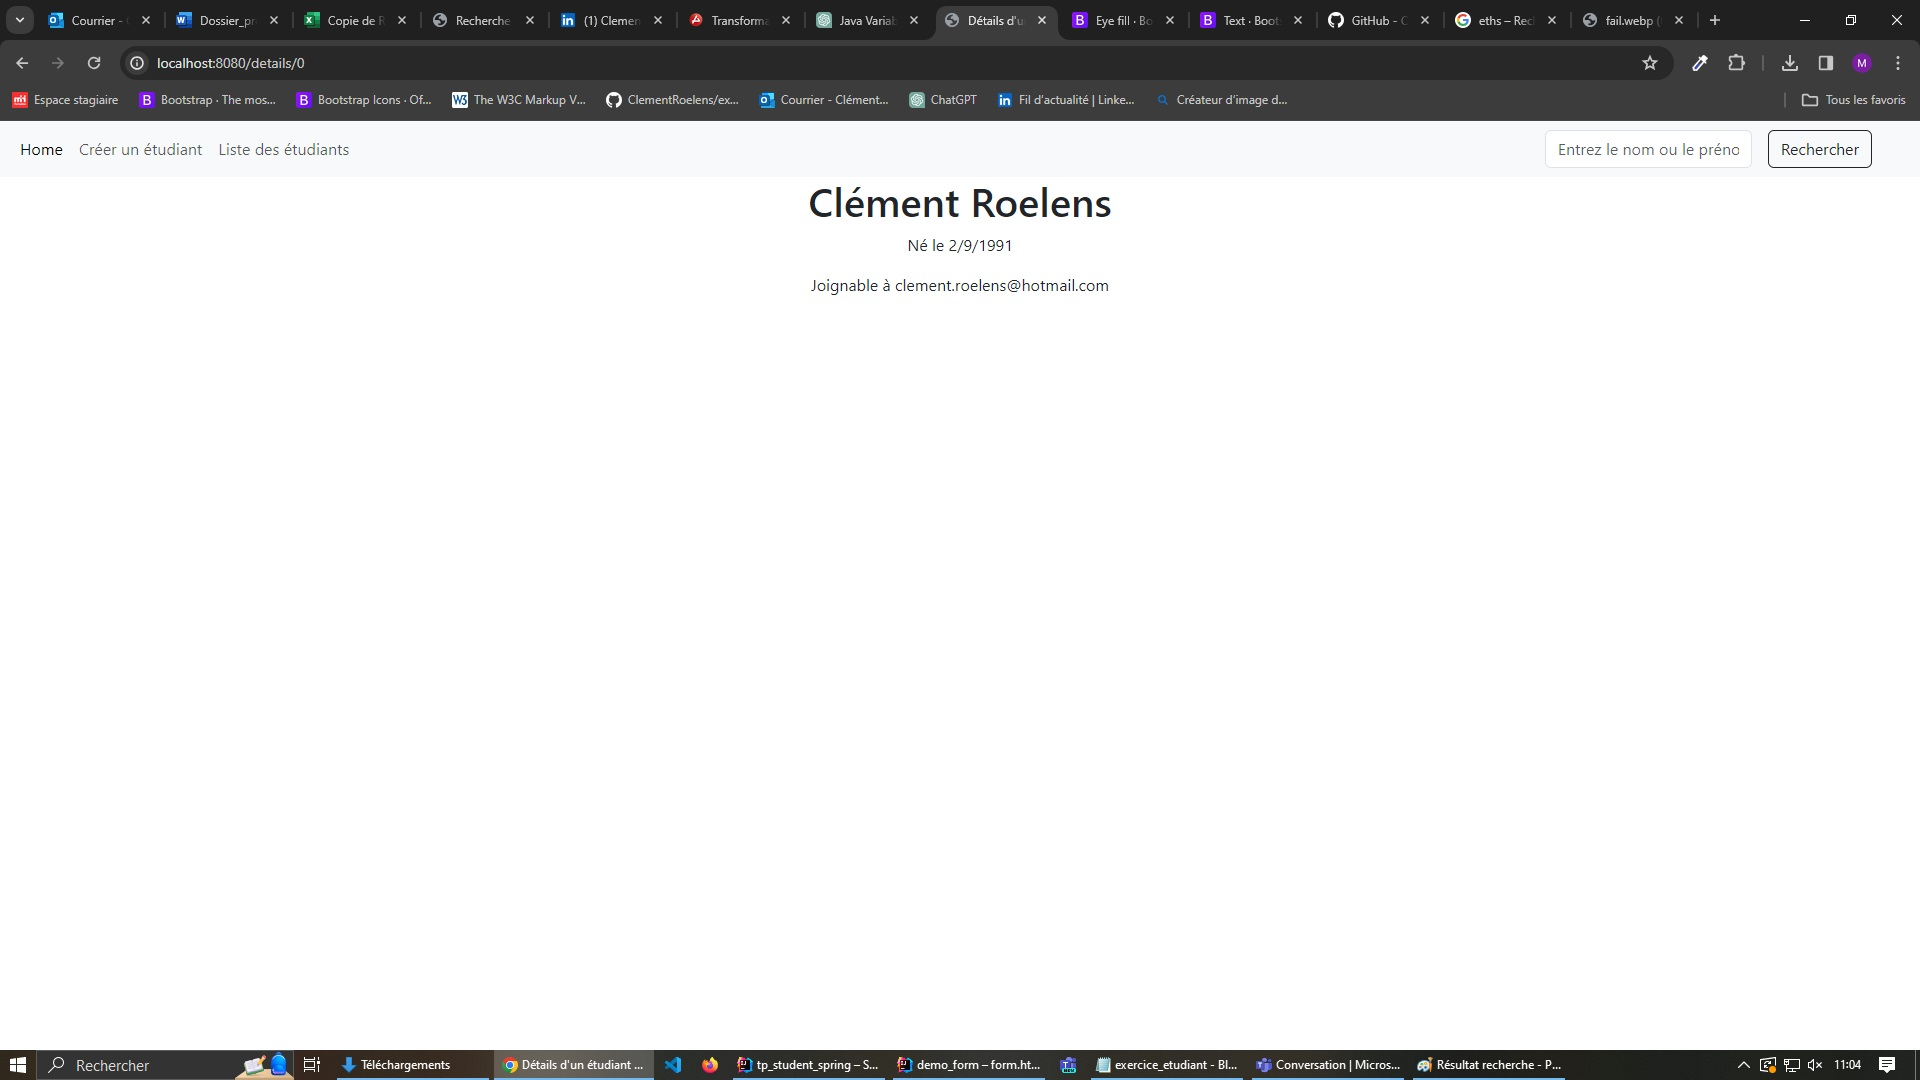
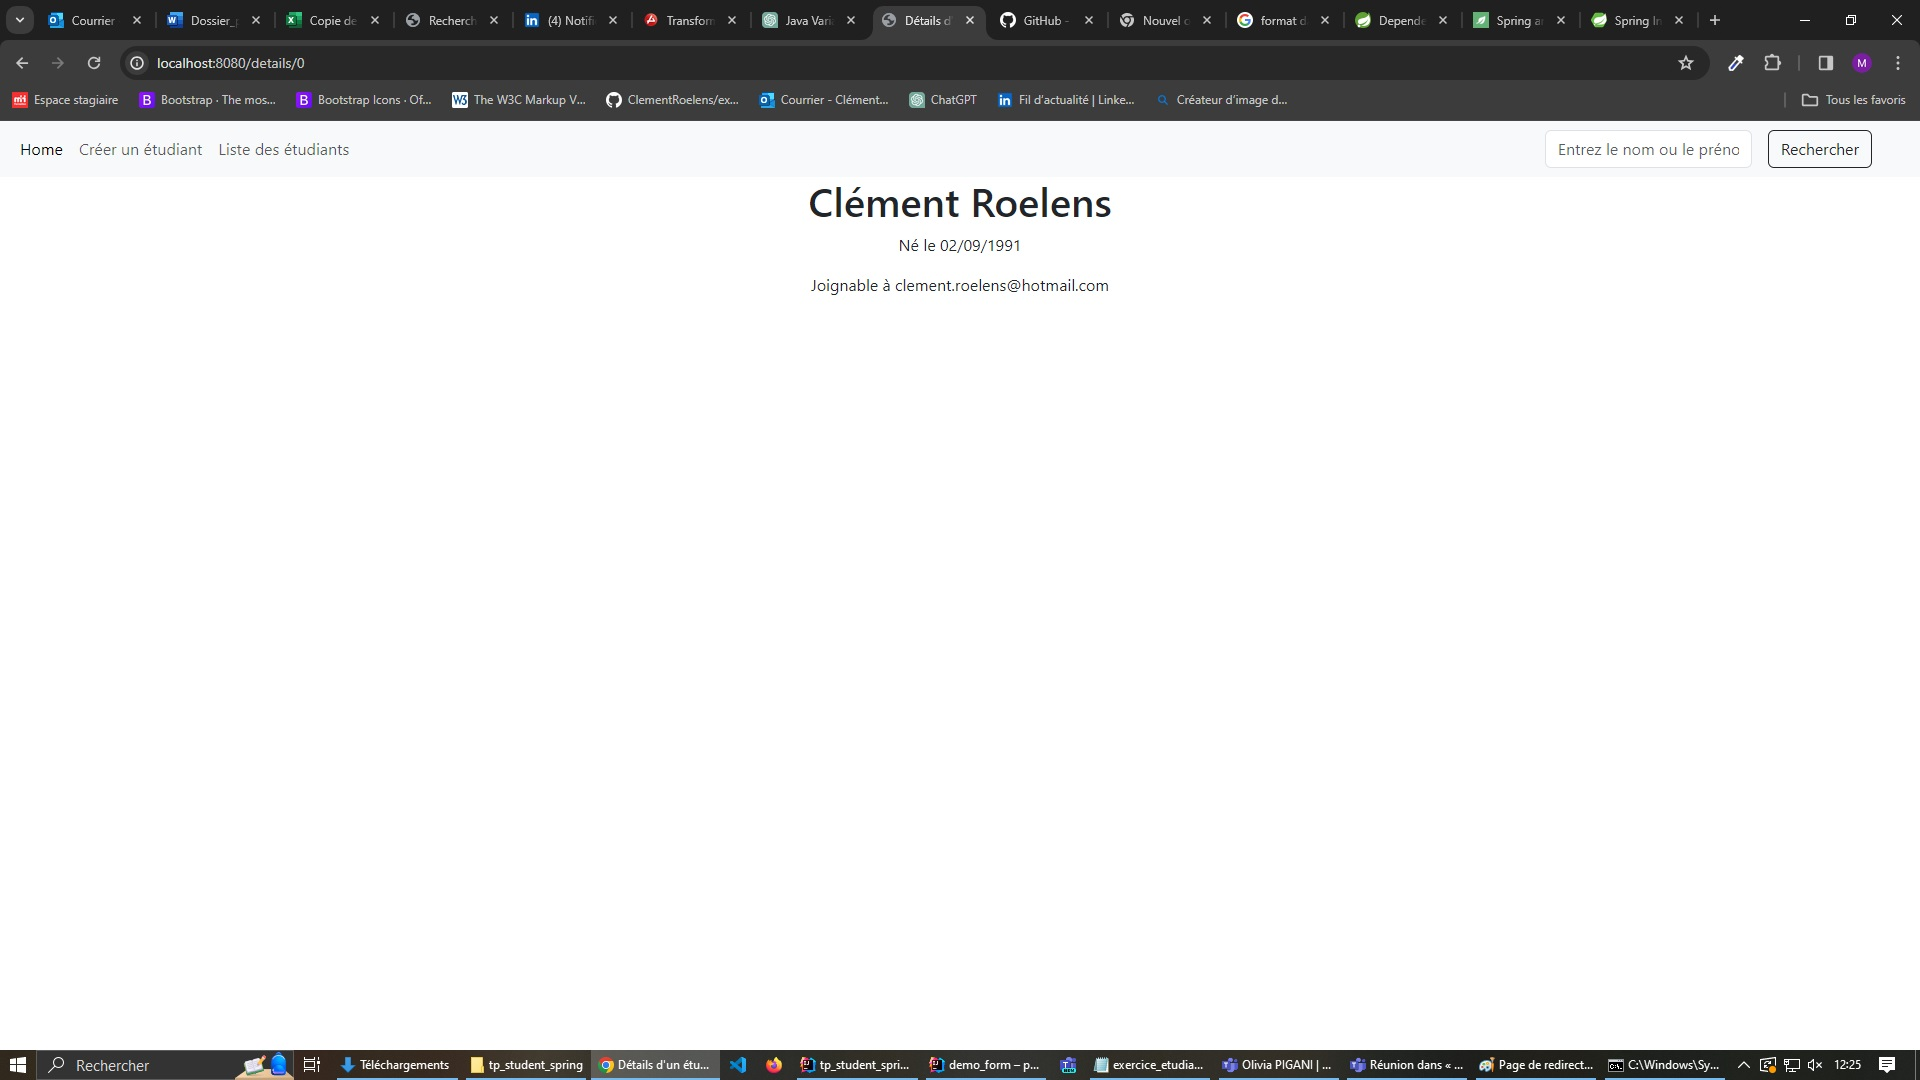
amélioré

diff --git a/src/main/resources/templates/pages/student-details.html b/src/main/resources/templates/pages/student-details.html
@@ -1,5 +1,5 @@
 <!DOCTYPE html>
-<html lang="en" xmlns:th="http://www.thymeleaf.org">
+<html lang="fr" xmlns:th="http://www.thymeleaf.org">
 <head>
     <meta charset="UTF-8">
     <title>Détails d'un étudiant</title>
@@ -9,7 +9,10 @@
 <th:block th:replace="~{pages/index :: header}"></th:block>
 <main class="container mx-auto text-center">
     <h1><th:block th:text="${student.firstName}"></th:block> <th:block th:text="${student.lastName}"></th:block></h1>
-    <p>Né le <th:block th:text="${student.birthdate.dayOfMonth}+'/'+${student.birthdate.getMonthValue()}+'/'+${student.birthdate.year}"></th:block></p>
+    <p>Né le <th:block
+            th:text="${student.birthdate.dayOfMonth < 10 ? '0' + student.birthdate.dayOfMonth : student.birthdate.dayOfMonth }+'/'
+            +${student.birthdate.getMonthValue() < 10 ? '0' + student.birthdate.getMonthValue() : student.birthdate.getMonthValue()}
+            +'/'+${student.birthdate.year}"></th:block></p>
     <p>Joignable à <span class="link-offset-1" th:text="${student.email}"></span></p>
 </main>
 </body>

diff --git a/src/main/resources/templates/pages/fail.html b/src/main/resources/templates/pages/fail.html
@@ -1,5 +1,5 @@
 <!DOCTYPE html>
-<html lang="en" xmlns:th="http://www.thymeleaf.org">
+<html lang="fr" xmlns:th="http://www.thymeleaf.org">
 <head>
     <meta charset="UTF-8">
     <title>Échec</title>
@@ -8,8 +8,9 @@
 <body>
 <th:block th:replace="~{pages/index :: header}"></th:block>
 <main class="container mx-auto text-center pt-4">
-    <h1>Quelle tristesse, une erreur est survenue</h1>
-    <img th:src="@{images/fail.webp}" alt="Lapin triste" class="w-50 rounded">
+    <h1 class="fs-4">Quelle tristesse, une erreur est survenue</h1>
+    <h2 class="fs-5" th:text="${message}"></h2>
+    <img th:src="@{/images/fail.webp}" alt="Lapin triste" class="w-25 rounded my-5">
     <p class="mt-2">Vous allez être redirigé</p>
 </main>
 <script th:inline="javascript">

diff --git a/src/main/resources/templates/pages/success.html b/src/main/resources/templates/pages/success.html
@@ -1,5 +1,5 @@
 <!DOCTYPE html>
-<html lang="en" xmlns:th="http://www.thymeleaf.org">
+<html lang="fr" xmlns:th="http://www.thymeleaf.org">
 <head>
     <meta charset="UTF-8">
     <title>Title</title>
@@ -8,8 +8,8 @@
 <body>
 <th:block th:replace="~{pages/index :: header}"></th:block>
 <main class="container mx-auto text-center pt-4">
-    <h1>Action réussie !</h1>
-    <img th:src="@{images/success.jpg}" alt="Lapin heureux" class="w-50 rounded">
+    <h1 class="fs-4">Action réussie !</h1>
+    <img th:src="@{/images/success.jpg}" alt="Lapin heureux" class="w-25 rounded my-5">
     <p class="mt-2">Vous allez être redirigé</p>
 </main>
 <script th:inline="javascript">

diff --git a/src/main/resources/templates/pages/add-student.html b/src/main/resources/templates/pages/add-student.html
@@ -1,5 +1,5 @@
 <!DOCTYPE html>
-<html lang="en" xmlns:th="http://www.thymeleaf.org">
+<html lang="fr" xmlns:th="http://www.thymeleaf.org">
 <head>
     <meta charset="UTF-8">
     <title>Ajout d'un étudiant</title>

diff --git a/src/main/resources/templates/pages/index.html b/src/main/resources/templates/pages/index.html
@@ -1,5 +1,5 @@
 <!DOCTYPE html>
-<html lang="en" xmlns:th="http://www.thymeleaf.org">
+<html lang="fr" xmlns:th="http://www.thymeleaf.org">
 <head>
     <meta charset="UTF-8">
     <title>Title</title>

diff --git a/src/main/resources/templates/pages/show-students.html b/src/main/resources/templates/pages/show-students.html
@@ -1,4 +1,4 @@
-<html lang="en" xmlns:th="http://www.thymeleaf.org">
+<html lang="fr" xmlns:th="http://www.thymeleaf.org">
 <head>
     <meta charset="UTF-8">
     <title>Liste des étudiants</title>

diff --git a/src/main/java/org/example/tp_student_spring/controller/StudentController.java b/src/main/java/org/example/tp_student_spring/controller/StudentController.java
@@ -23,8 +23,7 @@ public class StudentController {
 
     @GetMapping("/list")
     public String list(Model model){
-        List<Student> students = studentService.getAllStudents();
-        model.addAttribute("students",students);
+        model.addAttribute("students",studentService.getAllStudents());
         return "pages/show-students";
     }
 
@@ -35,16 +34,21 @@ public class StudentController {
     }
 
     @PostMapping("/addStudentAction")
-    public String addStudent(@ModelAttribute("student") Student student){
+    public String addStudent(@ModelAttribute("student") Student student, Model model){
         if (studentService.createStudent(student)){
             return "pages/success";
         }
+        model.addAttribute("message", "Un étudiant doit avoir 18 ans");
         return "pages/fail";
     }
 
     @GetMapping("/details/{id}")
     public String getDetails(@PathVariable("id")int id, Model model){
         Student student = studentService.getStudentByid(id);
+        if (student == null){
+            model.addAttribute("message","Aucun étudiant à cet id...");
+            return "pages/fail";
+        }
         model.addAttribute("student",student);
         return "pages/student-details";
     }
@@ -52,6 +56,10 @@ public class StudentController {
     @GetMapping("/seek")
     public String seek(@RequestParam("name") String name, Model model){
         List<Student> students = studentService.seekStudentsByName(name);
+        if (students.isEmpty()){
+            model.addAttribute("message", "Aucun étudiant trouvé");
+            return "pages/fail";
+        }
         model.addAttribute("students", students);
         return "pages/show-students";
     }

diff --git a/src/main/java/org/example/tp_student_spring/service/impl/StudentServiceImpl.java b/src/main/java/org/example/tp_student_spring/service/impl/StudentServiceImpl.java
@@ -43,6 +43,24 @@ public class StudentServiceImpl implements StudentService {
 
     @Override
     public boolean createStudent(Student student) {
+        // Vérification bien dégueulasse si l'étudiant a bien 18 ans...
+        if (LocalDate.now().getYear() - student.getBirthdate().getYear() < 18) {
+            return false;
+        }
+        if ((LocalDate.now().getYear() - student.getBirthdate().getYear() == 18)
+                &&
+                (LocalDate.now().getMonthValue() - student.getBirthdate().getMonthValue() < 0)) {
+            return false;
+        }
+        if ((LocalDate.now().getYear() - student.getBirthdate().getYear() == 18)
+                &&
+                (LocalDate.now().getMonthValue() - student.getBirthdate().getMonthValue() == 0)
+                &&
+                (LocalDate.now().getDayOfMonth() - student.getBirthdate().getDayOfMonth() < 0)
+        ) {
+            return false;
+        }
+
         students.add(student);
         return true;
     }
